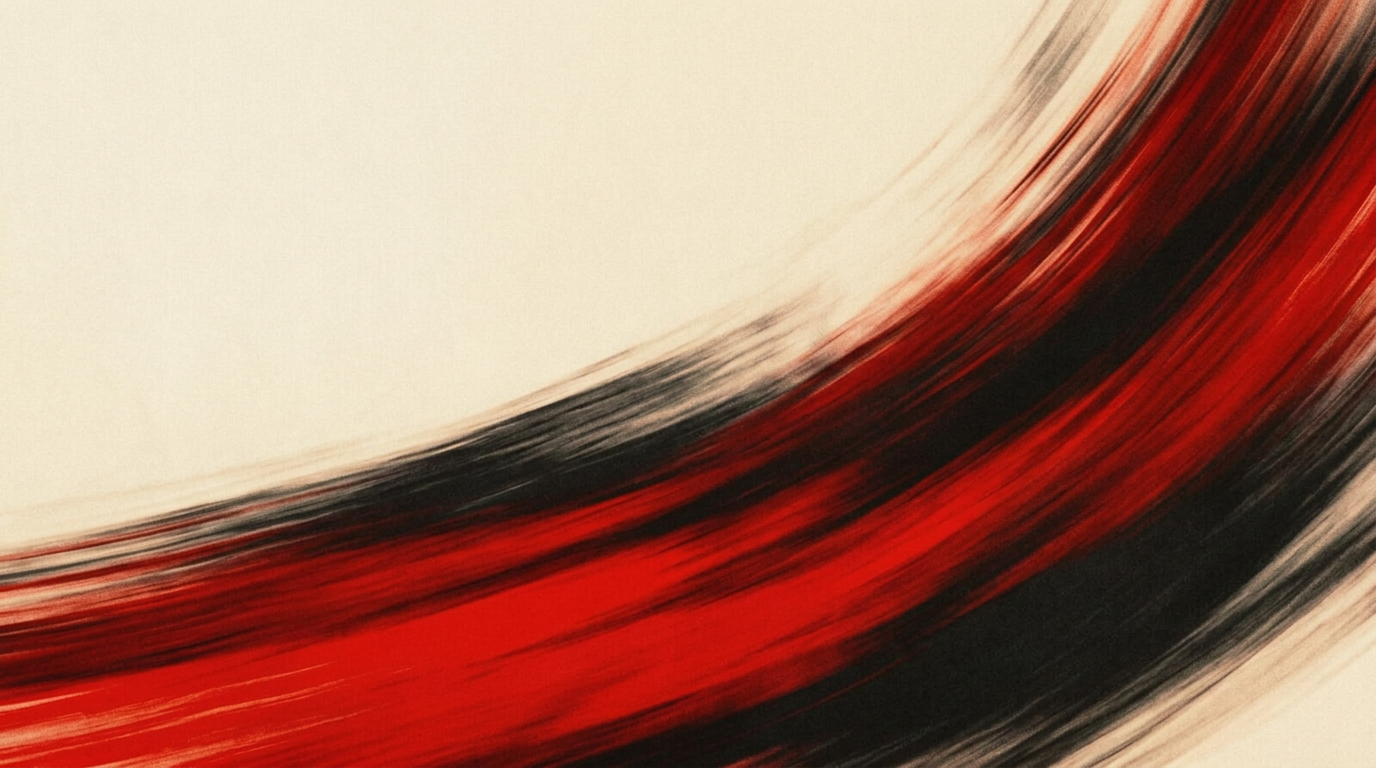
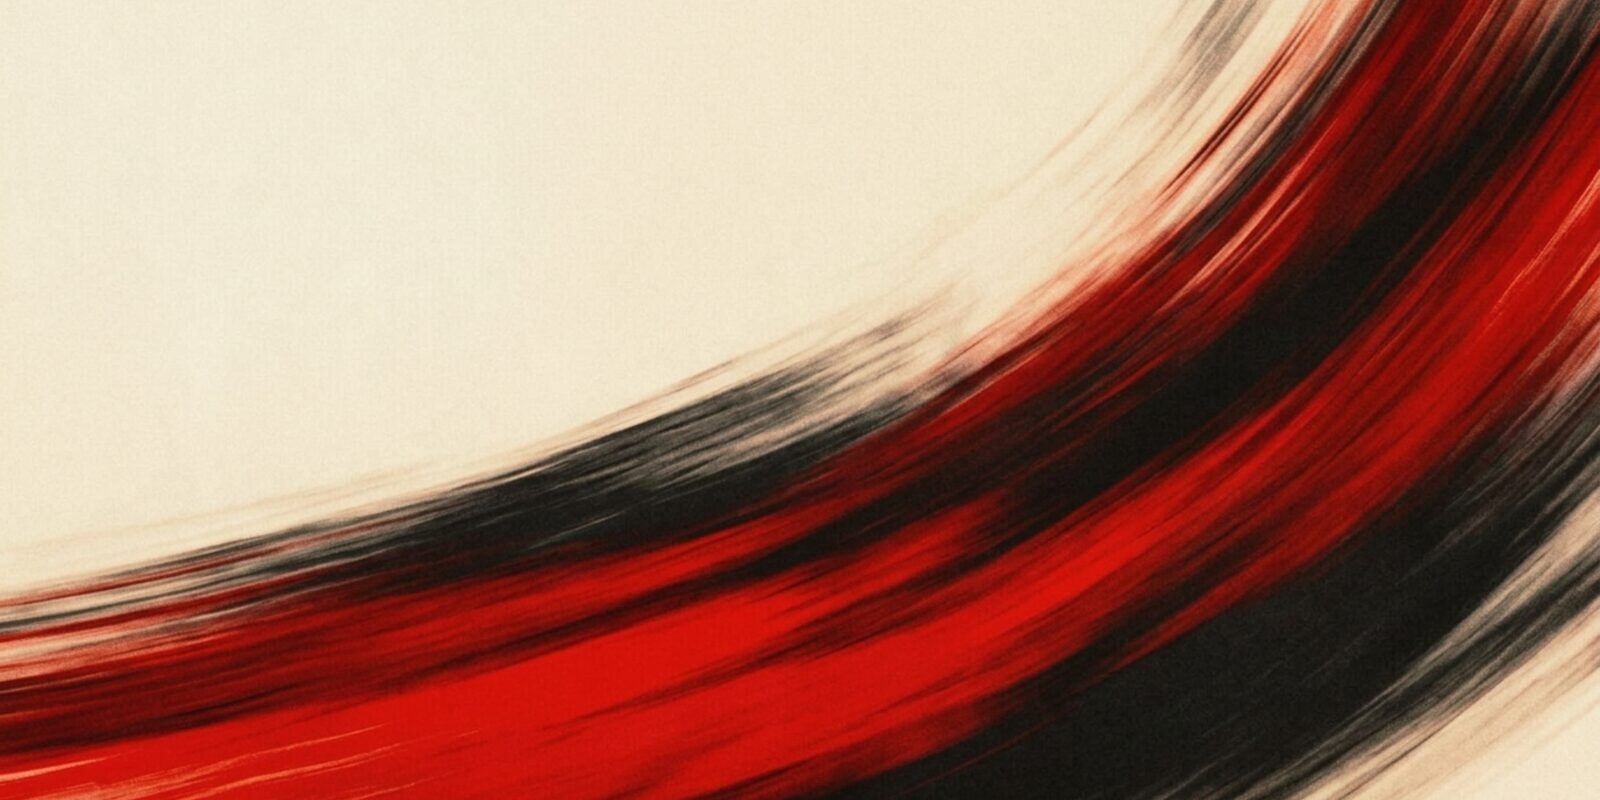
Changes

Changed region(s): [[0.0, 0.0, 1.0, 1.0], [0.6562, 0.5312, 1.0, 1.0], [0.625, 0.5625, 0.6562, 0.5938]]

diff --git a/src/routes/index.tsx b/src/routes/index.tsx
@@ -1,6 +1,6 @@
 import { createFileRoute } from "@tanstack/react-router";
 import { useEffect, useState } from "react";
-import heroSpeed from "@/assets/hero-speed.jpg";
+import heroSpeed from "@/assets/hero-speed-alt.jpg";
 
 
 export const Route = createFileRoute("/")({
